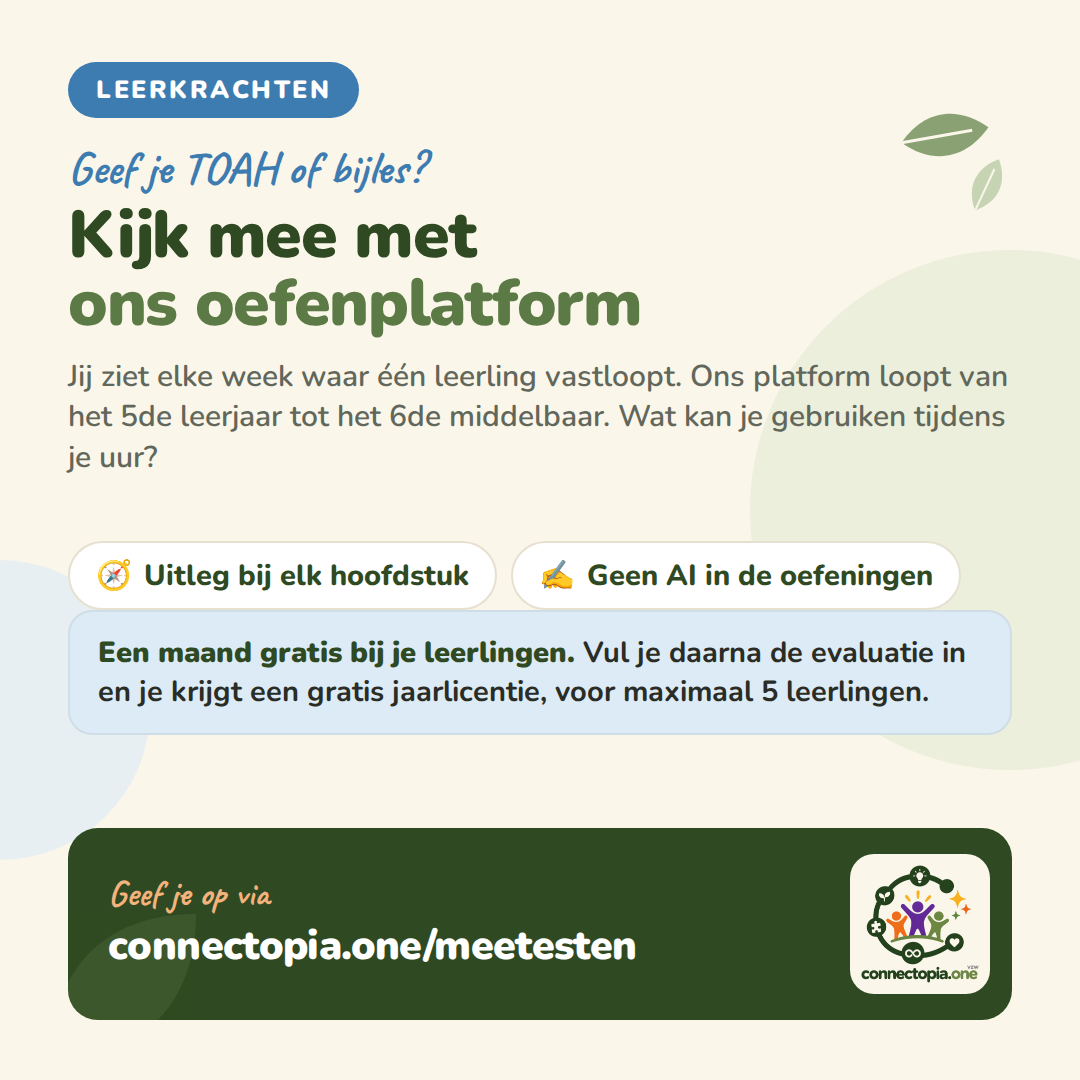
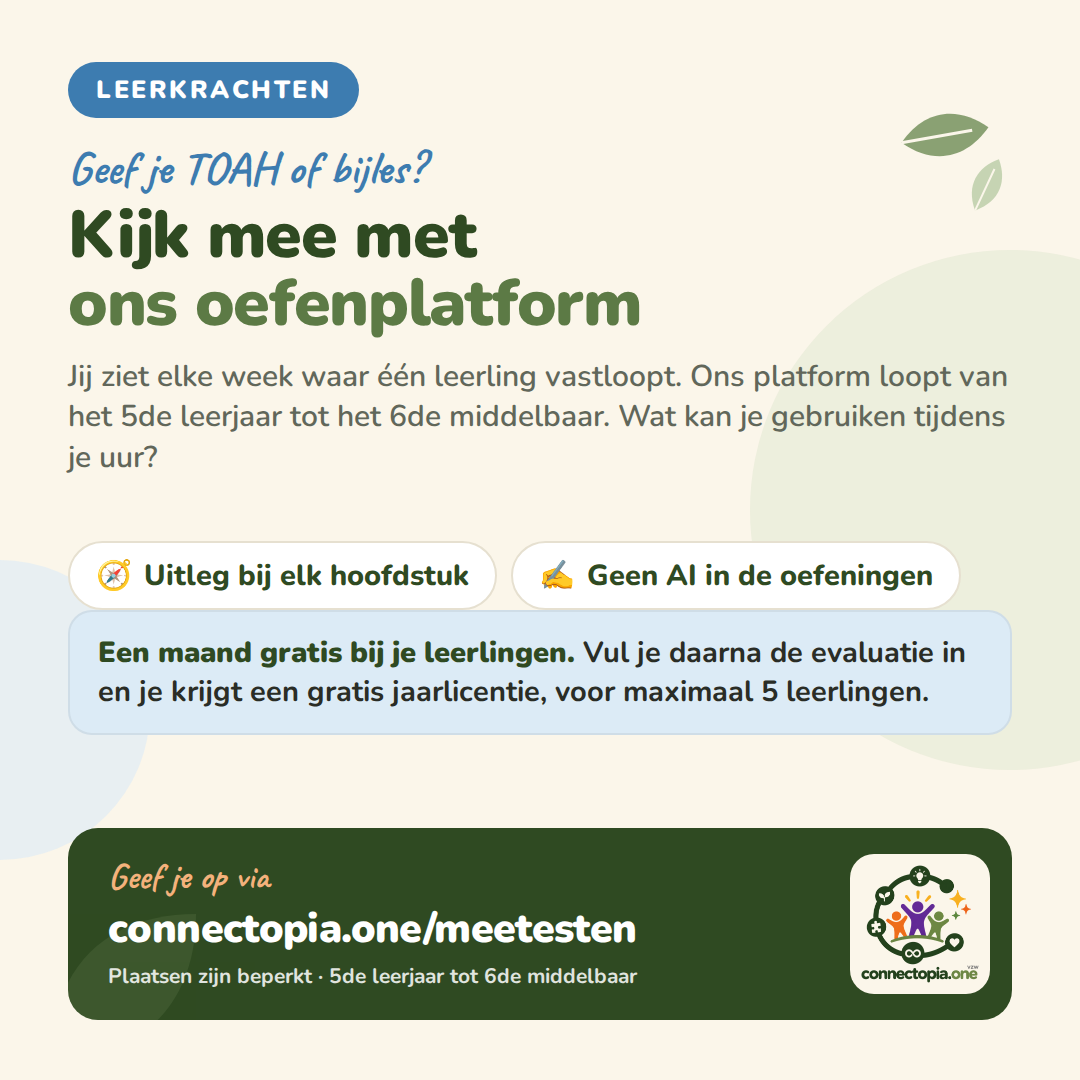
Meetesten: wat we terugvragen, de leerjaren en de beperkte plaatsen
Kim wil dat het vooraf duidelijk is dat meetesten geen gratis toegang zonder
meer is. Er staat nu een kader "Wat we van jou vragen" op de pagina: er die
maand echt mee werken, onderweg laten weten wat opvalt, en op het einde de
evaluatie invullen, want daar hangt het gratis jaar aan vast.

Verder staat er nu overal bij dat het platform van het 5de leerjaar tot het
6de middelbaar loopt, en dat het aantal plaatsen beperkt is: in de inleiding,
op de twee posts in de groene balk, en in een kadertje boven het formulier.

Naast de knop om een account aan te maken staat nu ook een gewone link naar
het oefenplatform zelf, voor wie eerst wil rondkijken voor hij iets aanmaakt.

Claude-Session: https://claude.ai/code/session_01RndGgwwLWLzzwjpvUTuHxJ

Changed region(s): [[0.0917, 0.7944, 0.6111, 0.9167]]

diff --git a/website/content/meetesten.ts b/website/content/meetesten.ts
@@ -27,9 +27,9 @@ export const meetesten = {
 
   label: "Meetesten",
   titel: "Test ons oefenplatform mee",
-  handgeschreven: "Wij bouwen, jij vertelt ons wat er beter kan",
+  handgeschreven: "Wij geven je alles open, jij vertelt ons wat er beter kan",
   tekst:
-    "Ons oefenplatform groeit elke week. Gezinnen die thuisonderwijs geven, testen het al. Nu zoeken we er twee groepen bij die de leerstof van een heel andere kant bekijken. Herken je jezelf hieronder? Dan test je een maand lang gratis mee, en wie daarna de evaluatie invult, krijgt een gratis jaarlicentie.",
+    "Ons oefenplatform loopt van het 5de leerjaar tot het 6de middelbaar en groeit elke week. Gezinnen die thuisonderwijs geven, testen het al. Nu zoeken we er twee groepen bij die de leerstof van een heel andere kant bekijken. Je test een maand lang gratis, en wie daarna de evaluatie invult, krijgt een gratis jaarlicentie. Het aantal plaatsen is beperkt.",
 
   groepenTitel: "Wie we erbij zoeken",
   groepen: [
@@ -81,6 +81,20 @@ export const meetesten = {
   ],
 
   /*
+    Dit kader staat er met opzet streng in. Kim wil dat vooraf duidelijk is
+    dat meetesten geen gratis toegang zonder meer is: wie niets laat weten,
+    krijgt ook geen gratis jaar.
+  */
+  afspraakTitel: "Wat we van jou vragen",
+  afspraakTekst:
+    "Meetesten is geen gratis toegang zonder meer. We zetten alles voor je open omdat we je mening nodig hebben, dus we rekenen erop dat je er in die maand ook echt mee werkt.",
+  afspraak: [
+    "Werk er die maand echt mee, niet \u00e9\u00e9n keertje aan het begin",
+    "Laat ons onderweg weten wat je opvalt, ook de kleine dingen",
+    "Vul op het einde de evaluatie in; daar hangt je gratis jaar aan vast",
+  ],
+
+  /*
     Wie zich opgeeft maar niet gekozen wordt, mag niet met lege handen
     achterblijven. Daarom staan de prijzen er meteen bij.
     De tijdelijke prijs van 20 euro staat ook in oefenplatform/lib/prijs.ts;
@@ -92,6 +106,11 @@ export const meetesten = {
   prijzenKnop: {
     tekst: "Maak een account aan",
     link: "https://oefenplatform.connectopia.one/registreren",
+  },
+  /* Voor wie eerst wil rondkijken voor hij iets aanmaakt. */
+  prijzenLink: {
+    tekst: "Of kijk eerst rond op het oefenplatform",
+    link: "https://oefenplatform.connectopia.one",
   },
   prijzen: [
     {
@@ -118,6 +137,8 @@ export const meetesten = {
   formulierTitel: "Geef je op om mee te testen",
   formulierTekst:
     "Vink aan wat op jou past en laat je gegevens achter. We nemen contact op om je toegang in orde te brengen.",
+  formulierPlaatsen:
+    "Het aantal plaatsen is beperkt. Je hoort van ons of je erbij bent, en we laten het ook weten als het deze keer niet lukt.",
   onderwerp: "Aanmelding om mee te testen via de website",
 
   gesloten:

diff --git a/website/app/meetesten/page.tsx b/website/app/meetesten/page.tsx
@@ -84,6 +84,26 @@ export default async function MeetestenPagina() {
         </div>
       </Sectie>
 
+      {/* Wat een tester ervoor teruggeeft. */}
+      <Sectie className="py-8">
+        <div className="rounded-[20px] bg-purple-soft px-6 py-5">
+          <h2 className="text-2xl text-purple">{meetesten.afspraakTitel}</h2>
+          <p className="mt-2 max-w-[68ch] text-[16px] text-ink">
+            {meetesten.afspraakTekst}
+          </p>
+          <ul className="mt-3 grid gap-2">
+            {meetesten.afspraak.map((punt) => (
+              <li key={punt} className="flex gap-2 text-[16px] text-ink">
+                <span aria-hidden className="text-purple">
+                  ✓
+                </span>
+                <span>{punt}</span>
+              </li>
+            ))}
+          </ul>
+        </div>
+      </Sectie>
+
       {/* Voor wie niet gekozen wordt: wat het anders kost. */}
       <Sectie className="py-8">
         <div className="rounded-[20px] bg-orange-soft px-6 py-5">
@@ -101,10 +121,16 @@ export default async function MeetestenPagina() {
               </li>
             ))}
           </ul>
-          <div className="mt-5">
+          <div className="mt-5 flex flex-wrap items-center gap-4">
             <Knop href={meetesten.prijzenKnop.link}>
               {meetesten.prijzenKnop.tekst}
             </Knop>
+            <a
+              href={meetesten.prijzenLink.link}
+              className="text-[16px] font-extrabold text-green underline-offset-4 hover:underline"
+            >
+              {meetesten.prijzenLink.tekst} →
+            </a>
           </div>
         </div>
       </Sectie>
@@ -127,6 +153,9 @@ export default async function MeetestenPagina() {
             <>
               <p className="mt-2 max-w-[62ch] text-[16px] text-ink-dim">
                 {meetesten.formulierTekst}
+              </p>
+              <p className="mt-3 rounded-[16px] bg-sage-soft px-4 py-3 text-[16px] font-bold text-green">
+                {meetesten.formulierPlaatsen}
               </p>
               <div className="mt-6">
                 <Aanvraagformulier

diff --git a/social/posts/bron/posts.js b/social/posts/bron/posts.js
@@ -426,13 +426,16 @@ module.exports = [
     tekst:
       "Onze hoofdstukken volgen de vakfiches van de Examencommissie. Klopt dat met wat jij op je examen krijgt?",
     woorden: [
-      { ic: "🚀", tekst: "Boost · 3de en 4de middelbaar" },
-      { ic: "🌍", tekst: "Beyond · 5de en 6de middelbaar" },
+      { ic: "📚", tekst: "Van het 5de leerjaar tot het 6de middelbaar" },
       { ic: "📄", tekst: "Doorstroom en dubbele finaliteit" },
     ],
     nadruk:
       "<b>Een maand gratis testen.</b> Vul je daarna de evaluatie in en je krijgt een gratis jaarlicentie: een heel jaar toegang tot alles.",
-    voet: { hand: "Geef je op via", url: "connectopia.one/meetesten" },
+    voet: {
+      hand: "Geef je op via",
+      url: "connectopia.one/meetesten",
+      klein: "Plaatsen zijn beperkt",
+    },
   },
 
   {
@@ -450,6 +453,10 @@ module.exports = [
     ],
     nadruk:
       "<b>Een maand gratis bij je leerlingen.</b> Vul je daarna de evaluatie in en je krijgt een gratis jaarlicentie, voor maximaal 5 leerlingen.",
-    voet: { hand: "Geef je op via", url: "connectopia.one/meetesten" },
+    voet: {
+      hand: "Geef je op via",
+      url: "connectopia.one/meetesten",
+      klein: "Plaatsen zijn beperkt · 5de leerjaar tot 6de middelbaar",
+    },
   },
 ];
